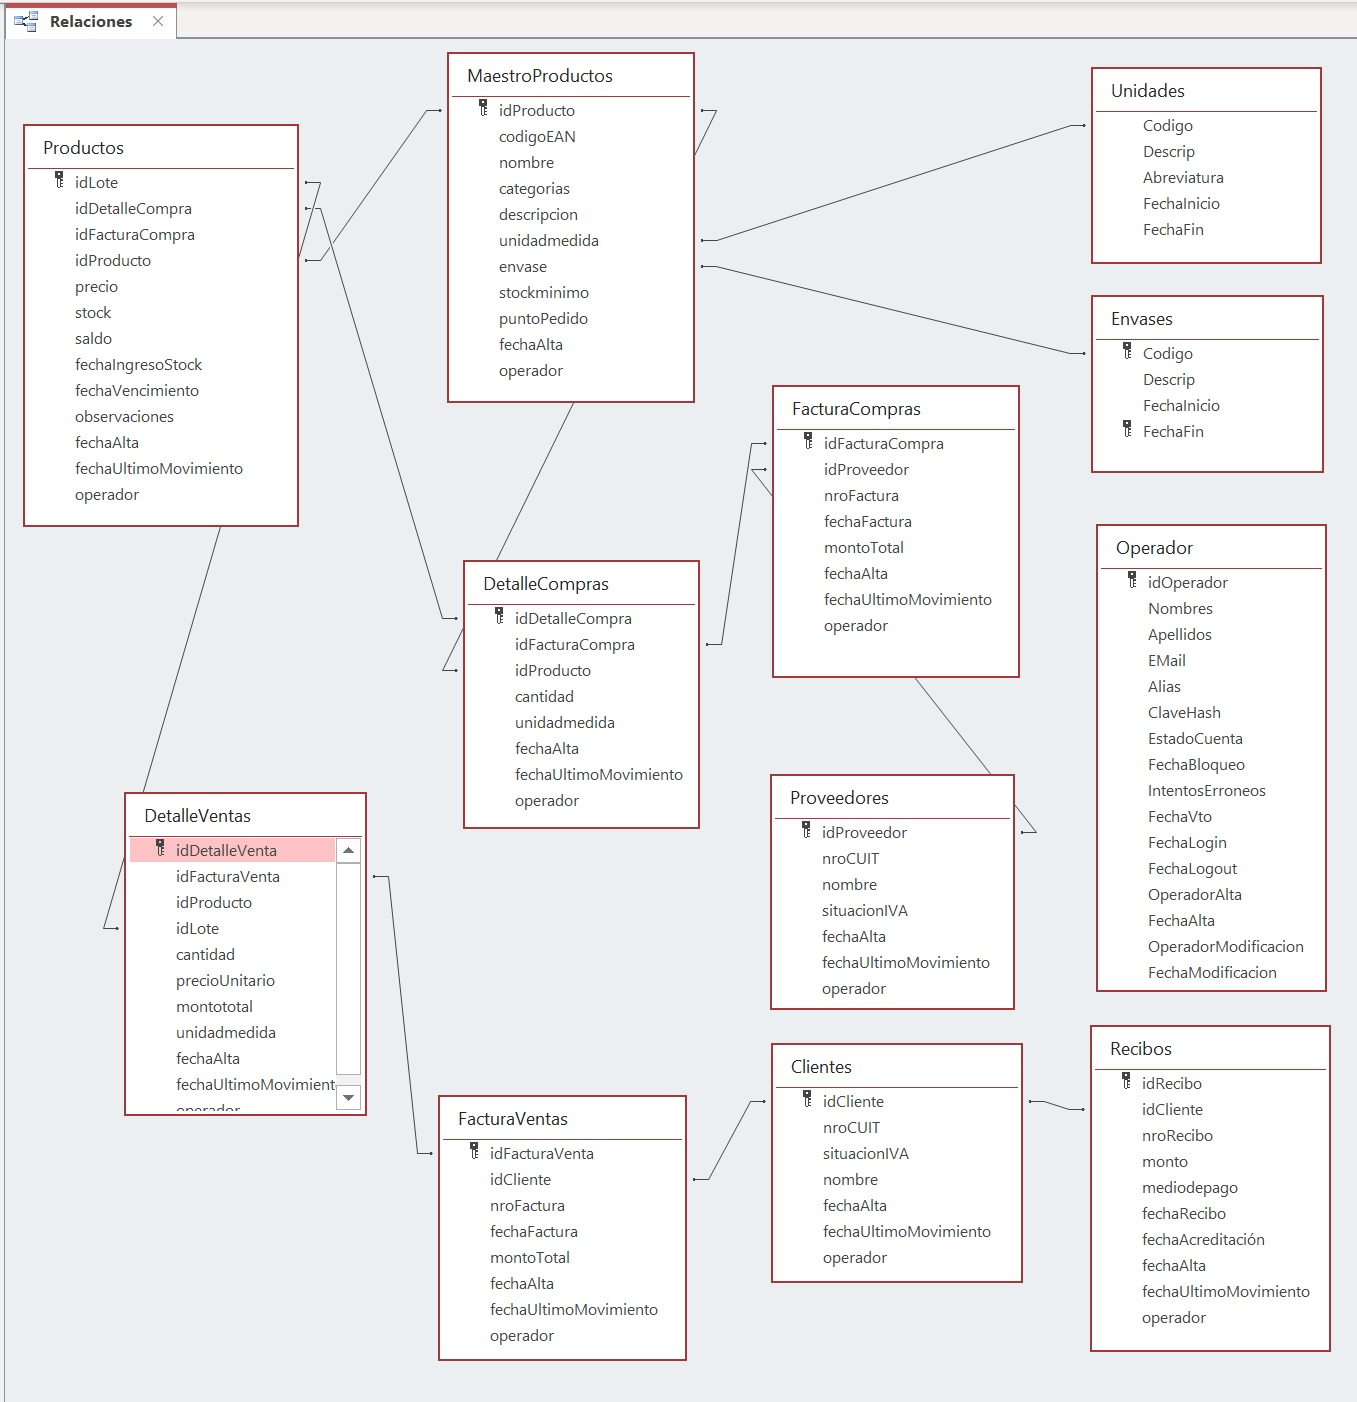
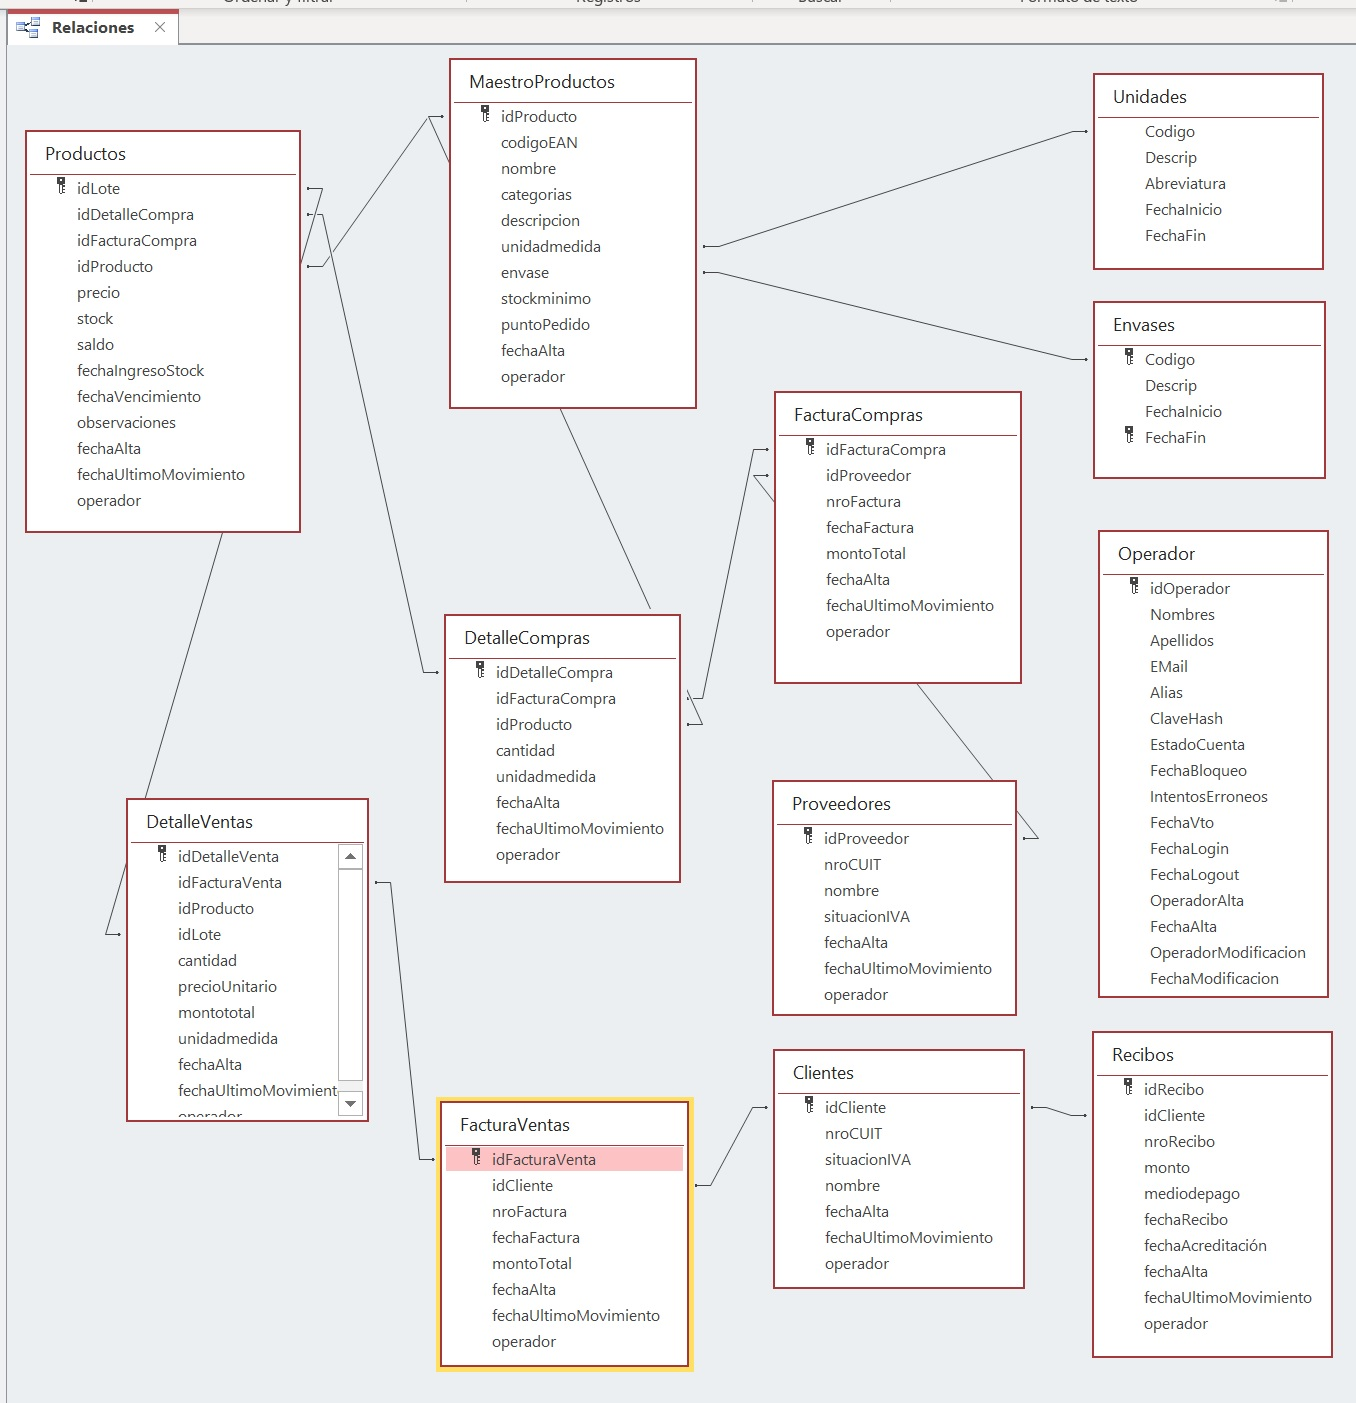
getDetalleStockPorProducto y getLotesPorProducto

diff --git a/src/controladores/ProductosControlador.js b/src/controladores/ProductosControlador.js
@@ -259,6 +259,43 @@ export const getResumenStockPorProducto = async (req, res) => {
 };
 
 // --------------------------------------------------------------
+// Detalle de lotes para un producto específico (saldo + vencimiento)
+// --------------------------------------------------------------
+export const getDetalleStockPorProducto = async (req, res) => {
+  try {
+    const { idProducto } = req.params;
+    const productoId = Number(idProducto);
+
+    const productos = JSON.parse(await fs.readFile(path.join(DATA_PATH, "Productos.json"), "utf8"));
+    const ventas = JSON.parse(await fs.readFile(path.join(DATA_PATH, "DetalleVentas.json"), "utf8"));
+
+    // Ventas por lote
+    const ventasPorLote = {};
+    for (const v of ventas) {
+      ventasPorLote[v.idLote] = (ventasPorLote[v.idLote] || 0) + v.cantidad;
+    }
+
+    // Filtrar lotes del producto y calcular saldo
+    const lotesProducto = productos
+      .filter(lote => lote.idProducto === productoId)
+      .map(lote => ({
+        idLote: lote.idLote,
+        saldo: lote.stock - (ventasPorLote[lote.idLote] || 0),
+        fechaVencimiento: lote.FechaVencimiento
+      }));
+
+    if (lotesProducto.length === 0) {
+      return res.status(404).json({ error: `No se encontraron lotes para el producto ${productoId}` });
+    }
+
+    res.status(200).json(lotesProducto);
+  } catch (error) {
+    console.error(error);
+    res.status(500).json({ error: error.message });
+  }
+};
+
+// --------------------------------------------------------------
 // Detalle: saldo y vencimiento por lote
 // --------------------------------------------------------------
 export const getDetalleStockPorLote = async (req, res) => {
@@ -279,6 +316,46 @@ export const getDetalleStockPorLote = async (req, res) => {
     }));
 
     res.status(200).json(detalle);
+  } catch (error) {
+    console.error(error);
+    res.status(500).json({ error: error.message });
+  }
+};
+
+// --------------------------------------------------------------
+// Obtener lista de lotes de un producto con saldo y vencimiento
+// --------------------------------------------------------------
+export const getLotesPorProducto = async (req, res) => {
+  try {
+    const { idProducto } = req.params;
+    const id = parseInt(idProducto);
+
+    // Leer archivos
+    const productos = JSON.parse(await fs.readFile(path.join(DATA_PATH, "Productos.json"), "utf8"));
+    const ventas = JSON.parse(await fs.readFile(path.join(DATA_PATH, "DetalleVentas.json"), "utf8"));
+
+    // Calcular ventas por lote
+    const ventasPorLote = {};
+    for (const v of ventas) {
+      ventasPorLote[v.idLote] = (ventasPorLote[v.idLote] || 0) + v.cantidad;
+    }
+
+    // Filtrar lotes del producto
+    const lotesDelProducto = productos.filter(lote => lote.idProducto === id);
+
+    if (lotesDelProducto.length === 0) {
+      return res.status(404).json({ error: `No se encontraron lotes para el producto ${id}` });
+    }
+
+    // Armar resultado
+    const resultado = lotesDelProducto.map(lote => ({
+      idLote: lote.idLote,
+      saldo: lote.stock - (ventasPorLote[lote.idLote] || 0),
+      fechaVencimiento: lote.FechaVencimiento,
+      precioCompra: lote.precio  // opcional
+    }));
+
+    res.status(200).json(resultado);
   } catch (error) {
     console.error(error);
     res.status(500).json({ error: error.message });

diff --git a/src/rutas/ProductosRouter.js b/src/rutas/ProductosRouter.js
@@ -14,6 +14,8 @@ import {
   getSaldoLote,
   getSaldoProducto,
   getResumenStockPorProducto,
+  getDetalleStockPorProducto,
+  getLotesPorProducto,
   updateProductoWithPrecio,
   updateProductoWithStock,
 } from "../controladores/ProductosControlador.js";
@@ -27,6 +29,8 @@ router.get("/categoria/:categoria", getAllProductosByCategoria);
 router.get("/saldo/lote/:idLote", getSaldoLote);
 router.get("/saldo/producto/:idProducto", getSaldoProducto);
 router.get("/stock/resumen", getResumenStockPorProducto);
+router.get("/stock/detalle/:idProducto", getDetalleStockPorProducto);
+router.get("/stock/:idProducto/lotes", getLotesPorProducto);
 
 // Rutas de productos Privadas
 router.post("/", createProducto);